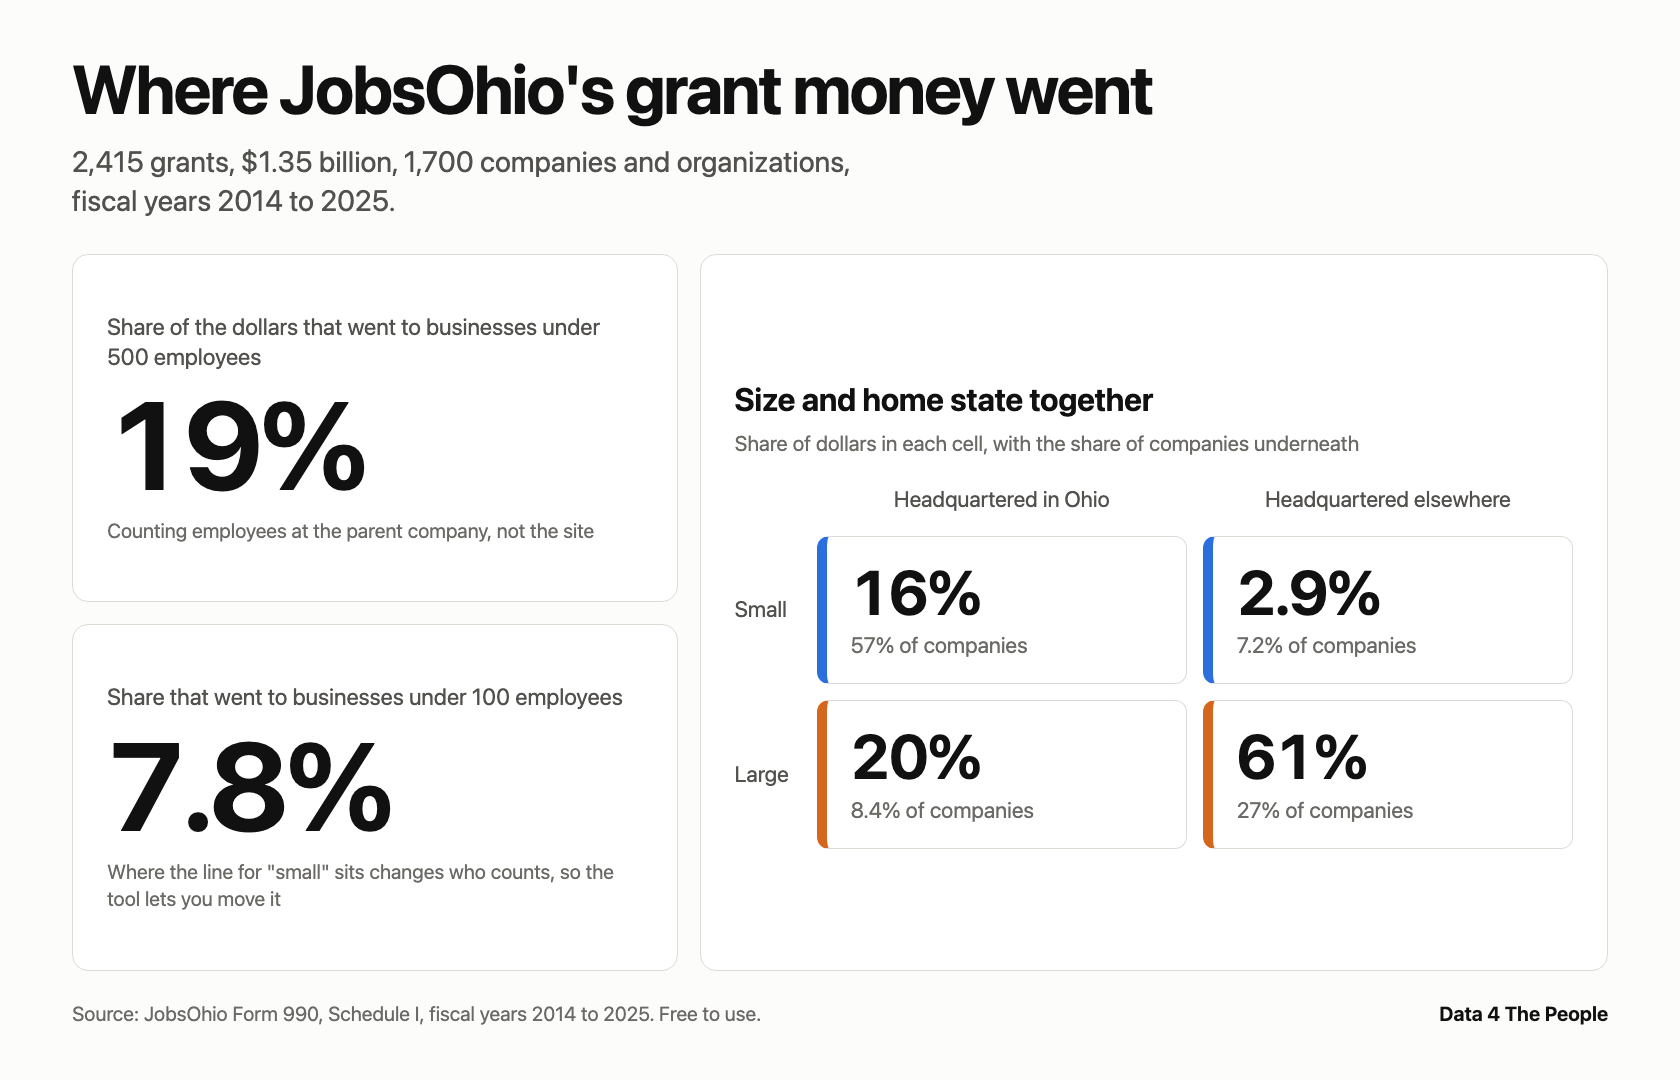
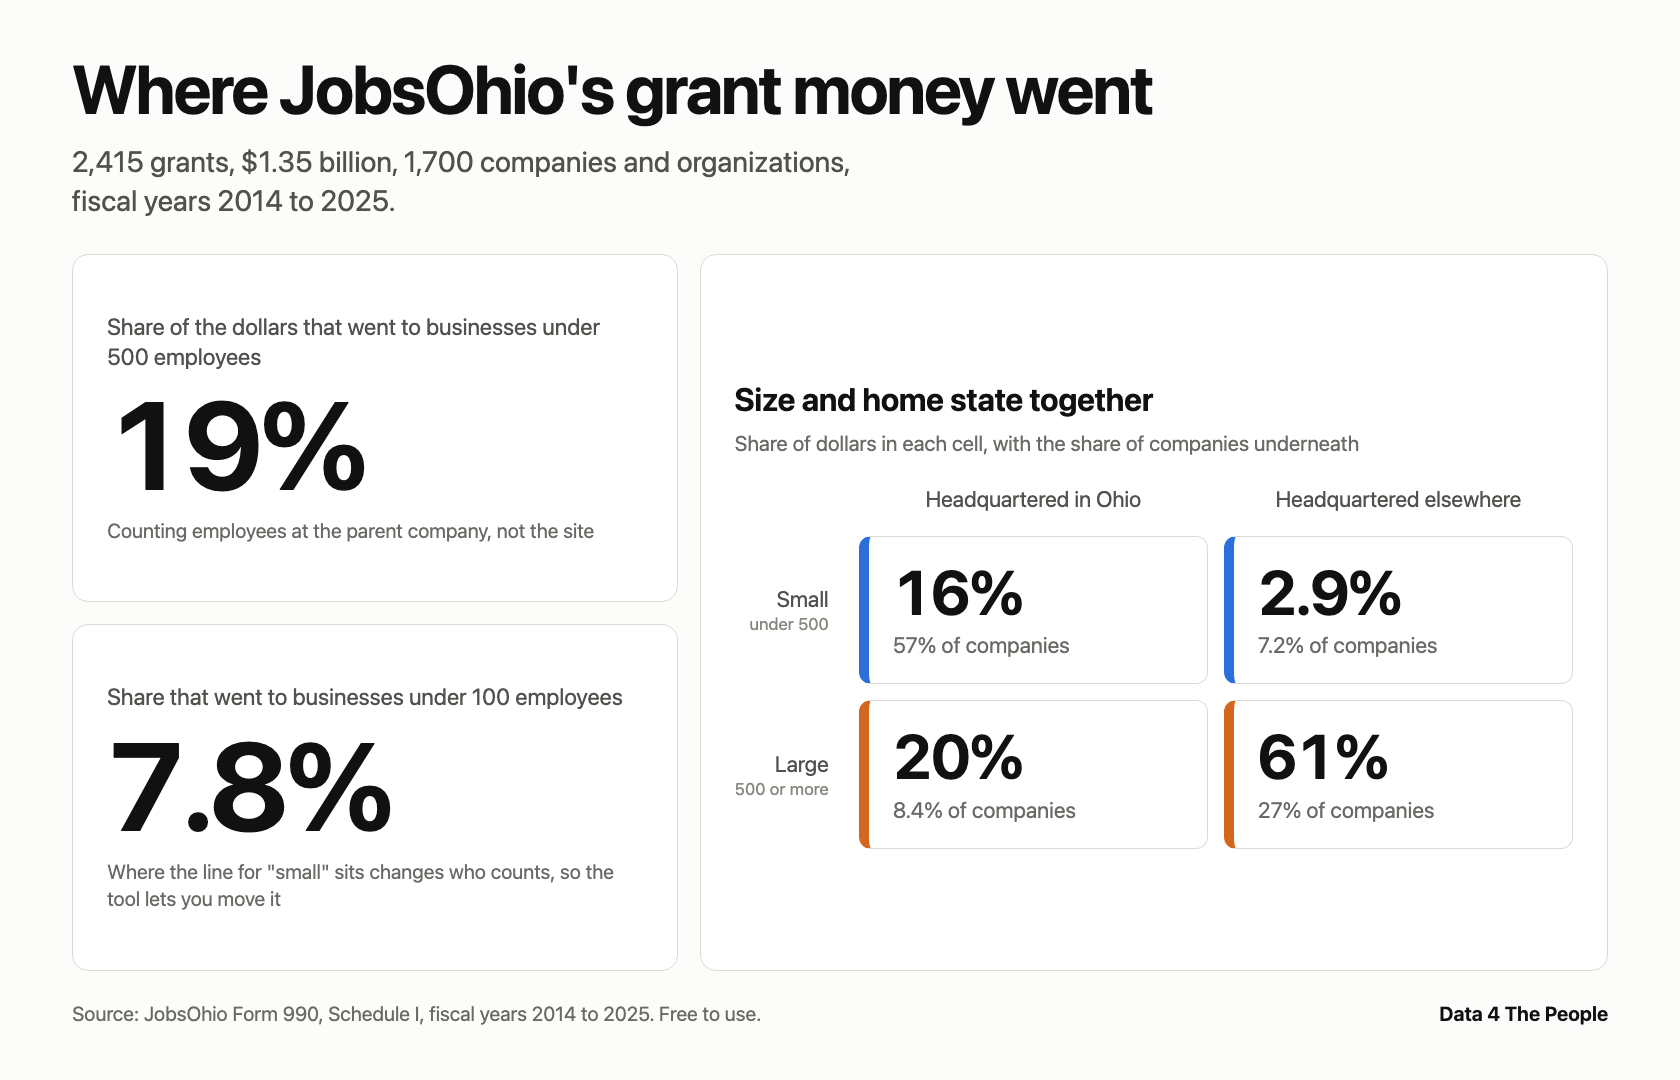
jobsohio-grants: 2d, the matrix says what small and large mean
The rows read "Small" and "Large" with nothing defining either. On the
page that is fine, because the control setting the line sits above the
chart. On a hero there is no control and no text, so the words meant
nothing to anyone meeting the project there.

Each row label now carries its threshold underneath, "under 500" and
"500 or more", which puts the definition where the word is rather than
in a note someone has to connect to it.

diff --git a/posts/jobsohio-grants/images/jobsohio-grants-hero-source.html b/posts/jobsohio-grants/images/jobsohio-grants-hero-source.html
@@ -20,7 +20,9 @@
   .note{font-size:21px;color:#6b6a66;margin-top:7px;line-height:1.35}
   .two{display:grid;grid-template-columns:auto 1fr 1fr;gap:16px;margin-top:26px}
   .hd{font-size:22px;color:#52514e;text-align:center;align-self:end;padding-bottom:4px}
-  .rh{font-size:22px;color:#52514e;align-self:center;padding-right:12px}
+  .rh{font-size:22px;color:#52514e;align-self:center;padding-right:14px;
+    text-align:right;line-height:1.2}
+  .rh span{display:block;font-size:17px;color:#8a8781;margin-top:2px}
   .cell{border:1px solid #dcdbd6;border-left-width:10px;border-radius:12px;padding:22px 24px}
   .cell .v{font-size:62px;font-weight:660;letter-spacing:-.025em;line-height:1.05;
     font-variant-numeric:tabular-nums}
@@ -51,10 +53,10 @@
         <p class="note">Share of dollars in each cell, with the share of companies underneath</p>
         <div class="two">
           <div></div><div class="hd">Headquartered in Ohio</div><div class="hd">Headquartered elsewhere</div>
-          <div class="rh">Small</div>
+          <div class="rh">Small<span>under 500</span></div>
           <div class="cell" style="border-left-color:#2a6fdb"><div class="v">16%</div><div class="s">57% of companies</div></div>
           <div class="cell" style="border-left-color:#2a6fdb"><div class="v">2.9%</div><div class="s">7.2% of companies</div></div>
-          <div class="rh">Large</div>
+          <div class="rh">Large<span>500 or more</span></div>
           <div class="cell" style="border-left-color:#d4661e"><div class="v">20%</div><div class="s">8.4% of companies</div></div>
           <div class="cell" style="border-left-color:#d4661e"><div class="v">61%</div><div class="s">27% of companies</div></div>
         </div>

diff --git a/scripts/48_hero.py b/scripts/48_hero.py
@@ -89,7 +89,9 @@ PAGE = """<!doctype html><html><head><meta charset="utf-8"><style>
   .note{{font-size:21px;color:#6b6a66;margin-top:7px;line-height:1.35}}
   .two{{display:grid;grid-template-columns:auto 1fr 1fr;gap:16px;margin-top:26px}}
   .hd{{font-size:22px;color:#52514e;text-align:center;align-self:end;padding-bottom:4px}}
-  .rh{{font-size:22px;color:#52514e;align-self:center;padding-right:12px}}
+  .rh{{font-size:22px;color:#52514e;align-self:center;padding-right:14px;
+    text-align:right;line-height:1.2}}
+  .rh span{{display:block;font-size:17px;color:#8a8781;margin-top:2px}}
   .cell{{border:1px solid #dcdbd6;border-left-width:10px;border-radius:12px;padding:22px 24px}}
   .cell .v{{font-size:62px;font-weight:660;letter-spacing:-.025em;line-height:1.05;
     font-variant-numeric:tabular-nums}}
@@ -120,10 +122,10 @@ PAGE = """<!doctype html><html><head><meta charset="utf-8"><style>
         <p class="note">Share of dollars in each cell, with the share of companies underneath</p>
         <div class="two">
           <div></div><div class="hd">Headquartered in Ohio</div><div class="hd">Headquartered elsewhere</div>
-          <div class="rh">Small</div>
+          <div class="rh">Small<span>under 500</span></div>
           <div class="cell" style="border-left-color:#2a6fdb"><div class="v">{so_c:.0f}%</div><div class="s">{so_n:.0f}% of companies</div></div>
           <div class="cell" style="border-left-color:#2a6fdb"><div class="v">{sx_c:.1f}%</div><div class="s">{sx_n:.1f}% of companies</div></div>
-          <div class="rh">Large</div>
+          <div class="rh">Large<span>500 or more</span></div>
           <div class="cell" style="border-left-color:#d4661e"><div class="v">{lo_c:.0f}%</div><div class="s">{lo_n:.1f}% of companies</div></div>
           <div class="cell" style="border-left-color:#d4661e"><div class="v">{lx_c:.0f}%</div><div class="s">{lx_n:.0f}% of companies</div></div>
         </div>

diff --git a/posts/jobsohio-grants/POST.md b/posts/jobsohio-grants/POST.md
@@ -5,7 +5,7 @@ slug: jobsohio-grants
 date: 2026-11-17T07:30:00-05:00
 section: Data 4 Thought
 hero: images/jobsohio-grants-hero-1680x1080.png
-hero_alt: Summary cards from the JobsOhio grants tool, covering 2,415 grants and $1.35 billion to 1,700 companies and organizations, fiscal years 2014 to 2025. Two headline figures: 19% of the dollars went to businesses under 500 employees at the parent company, and 7.8% went to businesses under 100. A grid crossing size with home state, using the 500-employee line, shows the share of dollars: small Ohio 16%, small elsewhere 2.9%, large Ohio 20%, large elsewhere 61%.
+hero_alt: Summary cards from the JobsOhio grants tool, covering 2,415 grants and $1.35 billion to 1,700 companies and organizations, fiscal years 2014 to 2025. Two headline figures: 19% of the dollars went to businesses under 500 employees at the parent company, and 7.8% went to businesses under 100. A grid crossing size with home state, where small means under 500 employees, shows the share of dollars: small Ohio 16%, small elsewhere 2.9%, large Ohio 20%, large elsewhere 61%.
 meta_title:
 description:
 keywords:
